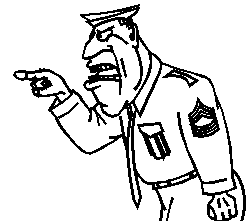
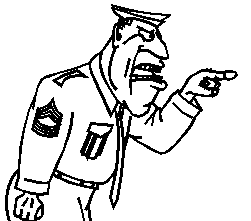
Edited the site style and layout.
I continued to specialize the site into multiple themes, primarily
working on the "general" theme. The general is now displayed talking
when there are flash messages.

Changed region(s): [[0.0, 0.0, 1.0, 1.0], [0.3068, 0.8959, 0.3625, 1.0]]

diff --git a/public/stylesheets/site_style.css b/public/stylesheets/site_style.css
@@ -11,7 +11,7 @@ h1, h2, h3, h4, h5, h6
   font-family: helvetica, arial, sans-serif;
 }
 
-#container{ width: 800px; margin: 10px auto; }
+#container{ width: 800px; margin-top: 10px; margin-left: 160px; }
 
 #header{height: 40px; position: relative;}
 
@@ -63,13 +63,10 @@ div.field, div.actions {
 
 .flash
 {
-  width: 450px; border: 2px solid #000;
+  border: 2px solid #000;
   margin: 10px; padding: 10px;
 }
 
-.notice {
-  background-color: #EEDC9A;
-}
 
 .field_with_errors {
   padding: 2px;

diff --git a/public/stylesheets/general.css b/public/stylesheets/general.css
@@ -1,0 +1,13 @@
+#general_img
+{
+  height: 150px; z-index: -1;
+  position: absolute; left: 20px; top: 20px;
+}
+
+#speech_img { position: absolute; top: 52px; left: 195px; }
+
+.flash
+{
+  display: inline-block; margin-left: 20px; margin-top: 60px;
+  border-radius: 10px; -moz-border-radius: 10px;
+}

diff --git a/config/initializers/themes.rb b/config/initializers/themes.rb
@@ -11,4 +11,8 @@ module Themes
   def self.current_theme=( theme_name )
     @@current_theme = THEMES[theme_name]
   end
+  
+  def self.is_general?
+    @@current_theme == THEMES["general"]
+  end
 end
